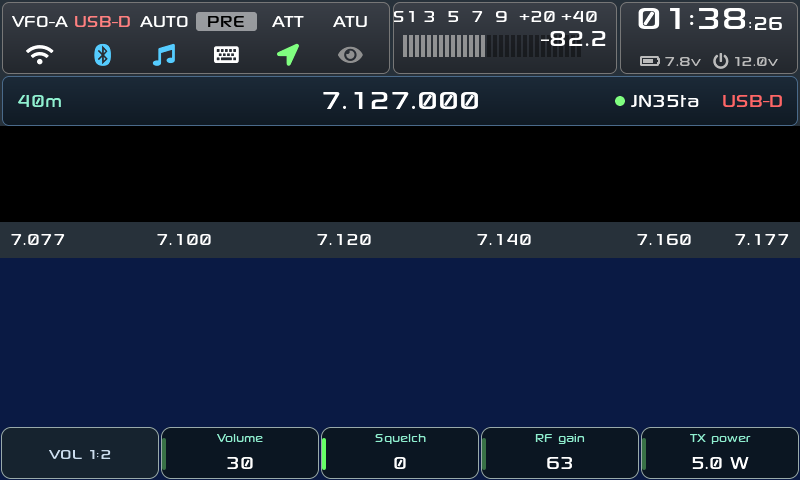
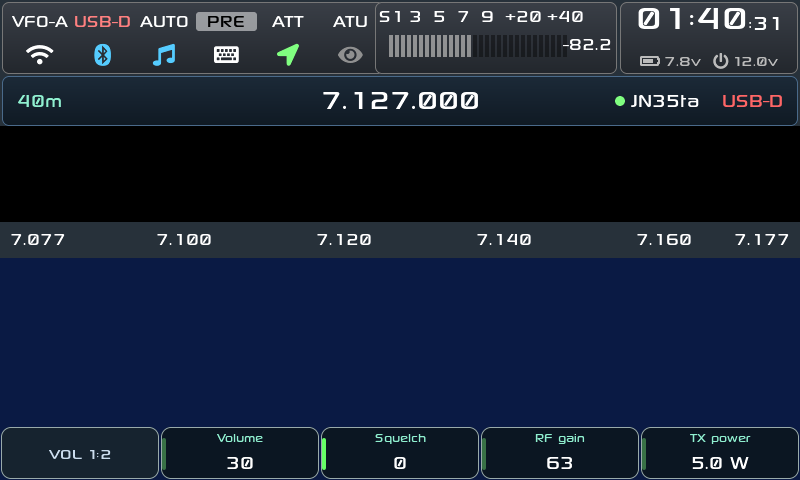
Top bar: info 370, S-meter inset and smaller dB value

Changed region(s): [[0.4688, 0.0, 0.7812, 0.1562], [0.875, 0.0, 1.0, 0.0625]]

diff --git a/src/meter.c b/src/meter.c
@@ -67,7 +67,7 @@ static void meter_draw_cb(lv_event_t * e) {
     lv_area_t           area;
 
     /* Scale on top, bars below it, the dB value on the right */
-    lv_coord_t x1 = obj->coords.x1 + 10;
+    lv_coord_t x1 = obj->coords.x1 + 14;
     lv_coord_t y1 = obj->coords.y1;
 
     uint8_t     slice_db = 3;
@@ -167,8 +167,8 @@ lv_obj_t * meter_init(lv_obj_t * parent) {
     subject_subscribe_delayed_and_notify((Subject*)cfg_cur_att, on_bool_value_change, &att);
 
     db_val_label = lv_label_create(obj);
-    lv_obj_set_style_text_font(db_val_label, &sony_30, 0);
-    lv_obj_align(db_val_label, LV_ALIGN_RIGHT_MID, -8, 0);
+    lv_obj_set_style_text_font(db_val_label, &sony_22, 0);
+    lv_obj_align(db_val_label, LV_ALIGN_RIGHT_MID, -4, 6);
     lv_obj_set_style_text_color(db_val_label, lv_color_white(), 0);
     lv_label_set_text(db_val_label, "");
     return obj;

diff --git a/src/styles.c b/src/styles.c
@@ -317,7 +317,7 @@ void styles_init(themes_t theme) {
     lv_style_set_align(&info_style, LV_ALIGN_TOP_LEFT);
     lv_style_set_x(&info_style, TOP_BAR_MARGIN);
     lv_style_set_y(&info_style, TOP_BAR_MARGIN);
-    lv_style_set_width(&info_style, 388);
+    lv_style_set_width(&info_style, 370);
     lv_style_set_height(&info_style, TOP_BAR_BOX_H);
     lv_style_set_pad_hor(&info_style, 5);
     lv_style_set_pad_ver(&info_style, 0);

diff --git a/src/styles.h b/src/styles.h
@@ -36,7 +36,7 @@ extern "C" {
 #define TOP_BAR_MARGIN  2
 #define CLOCK_W         178
 #define TOP_BAR_BOX_H   (TOP_BAR_HEIGHT - TOP_BAR_MARGIN * 2)
-#define TOP_BAR_METER_X (TOP_BAR_MARGIN + 388 + 3)
+#define TOP_BAR_METER_X (TOP_BAR_MARGIN + 370 + 3)
 #define TOP_BAR_METER_W (800 - TOP_BAR_METER_X - 3 - CLOCK_W - TOP_BAR_MARGIN)
 
 /* Frequency strip under the top bar, always shown */
